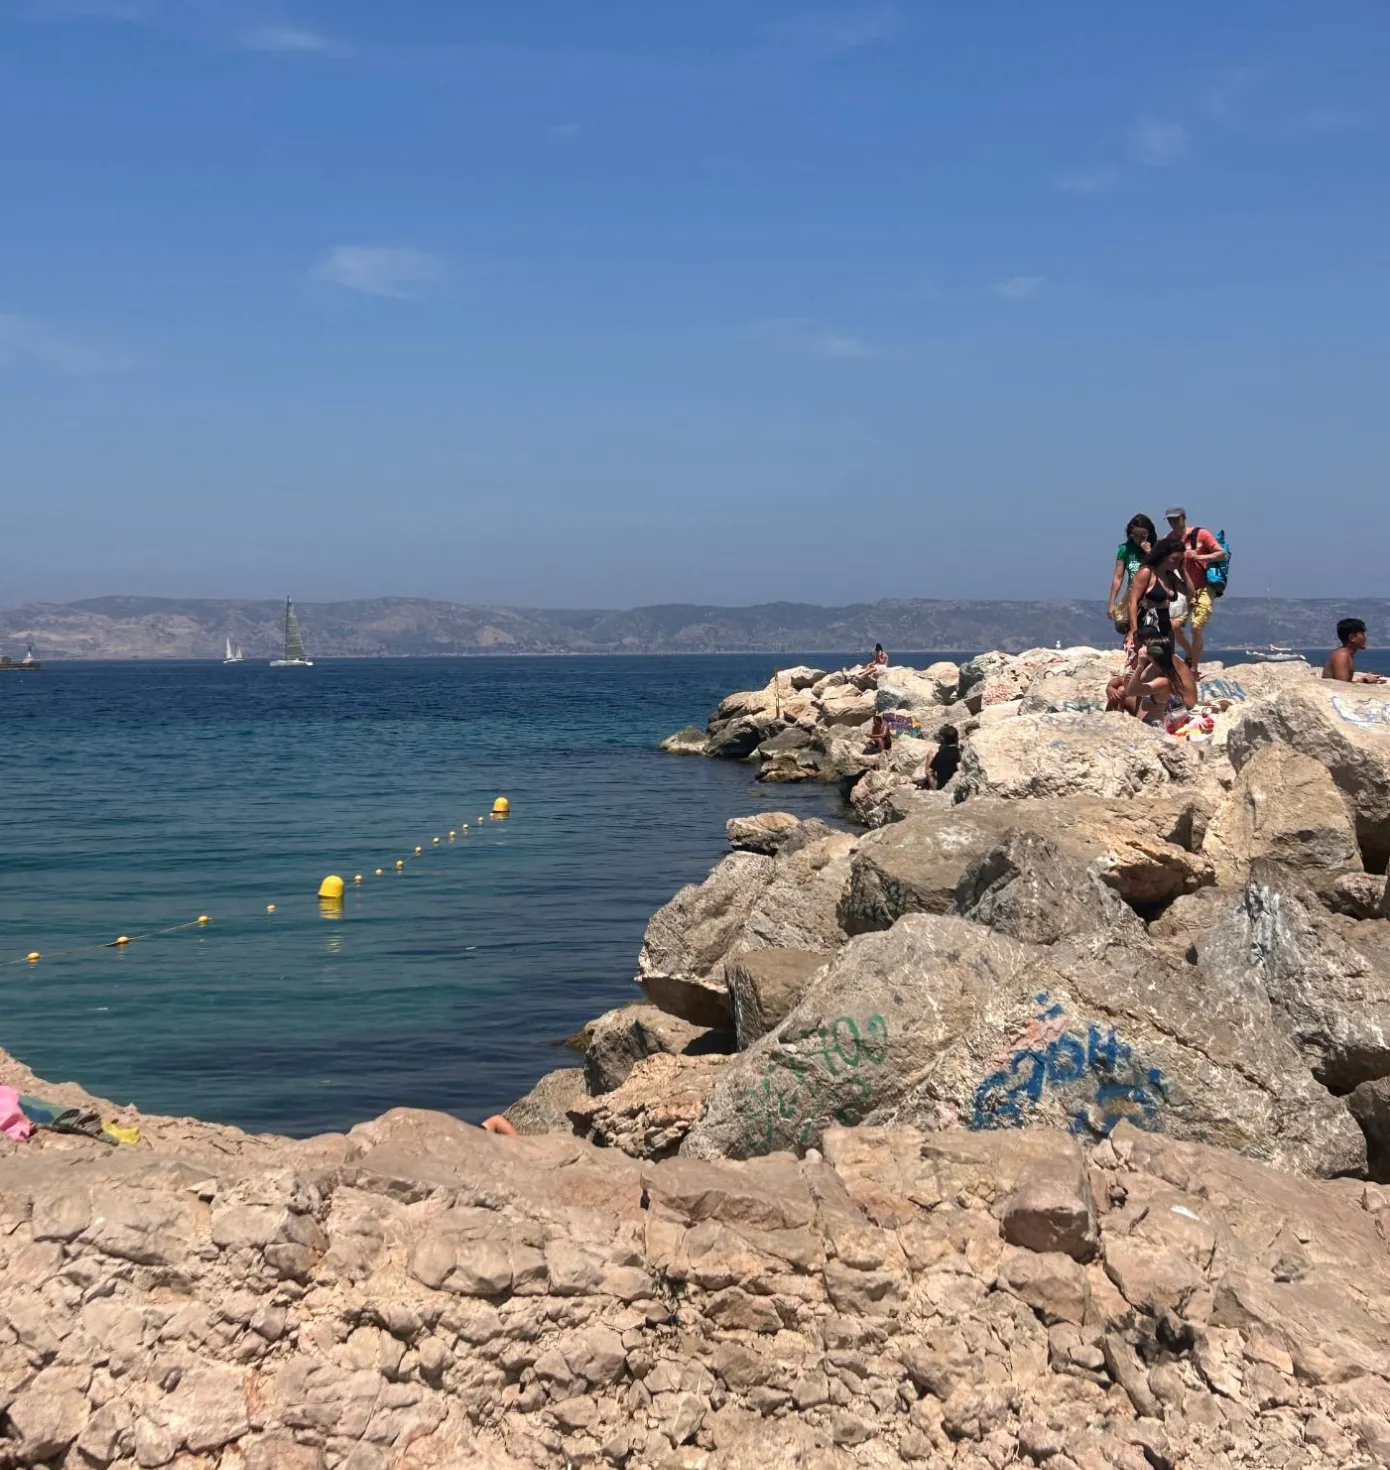
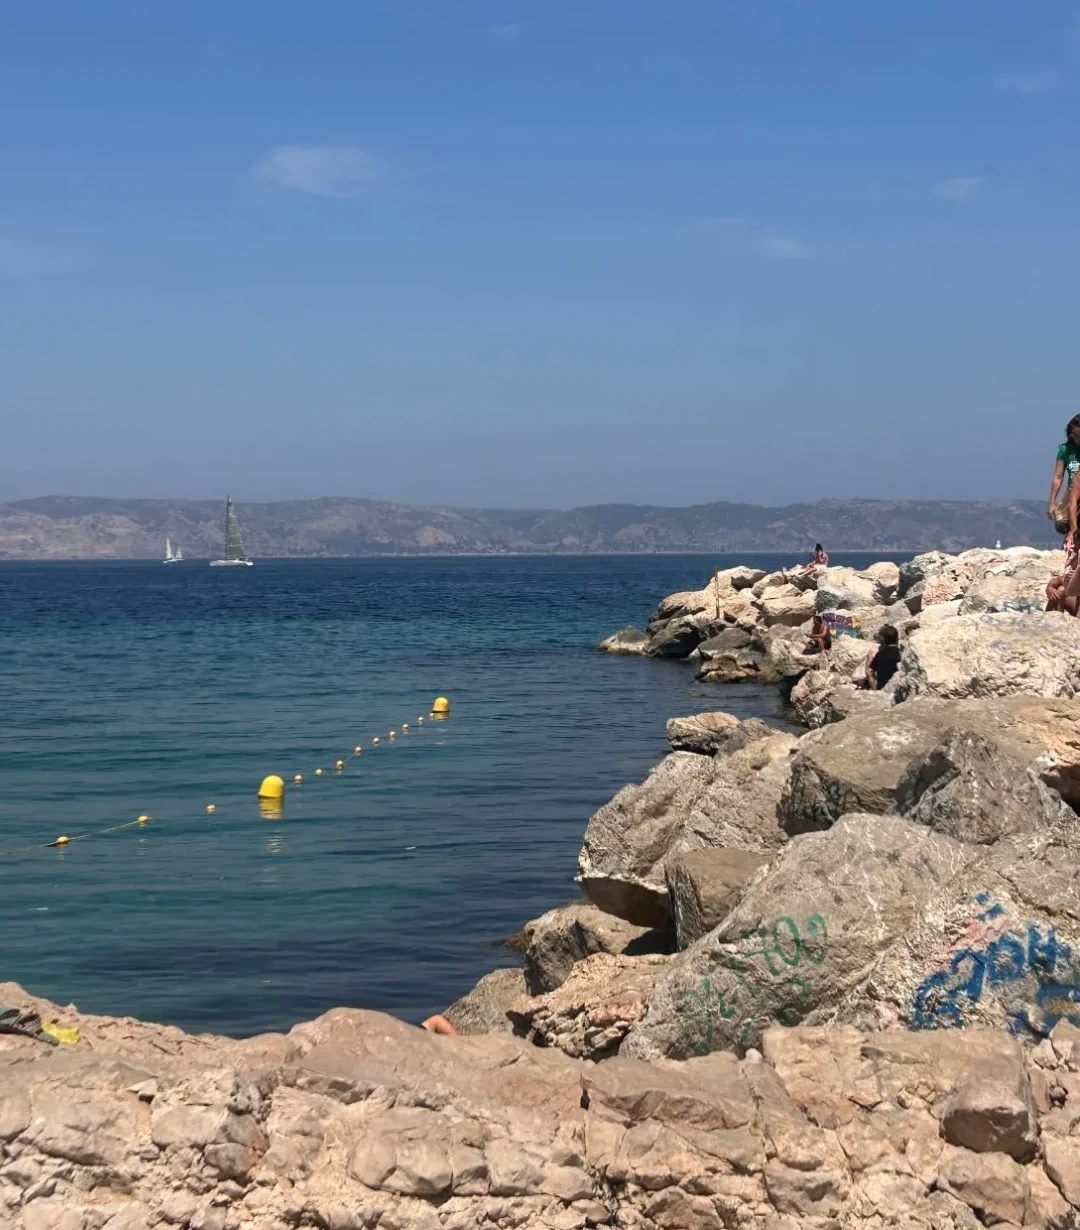
style(home): recrop mobile hero photo to show more of the sea

diff --git a/src/components/General/Name/Name.jsx b/src/components/General/Name/Name.jsx
@@ -20,7 +20,8 @@ export default function Name() {
 				justifyContent: 'center',
 				backgroundSize: 'cover',
 				backgroundPosition: {
-					xs: 'center bottom',
+					// Sur mobile, on cale la photo à gauche, du côté de la mer
+					xs: 'left center',
 					md: 'center 70%',
 				},
 				backgroundAttachment: 'scroll',
